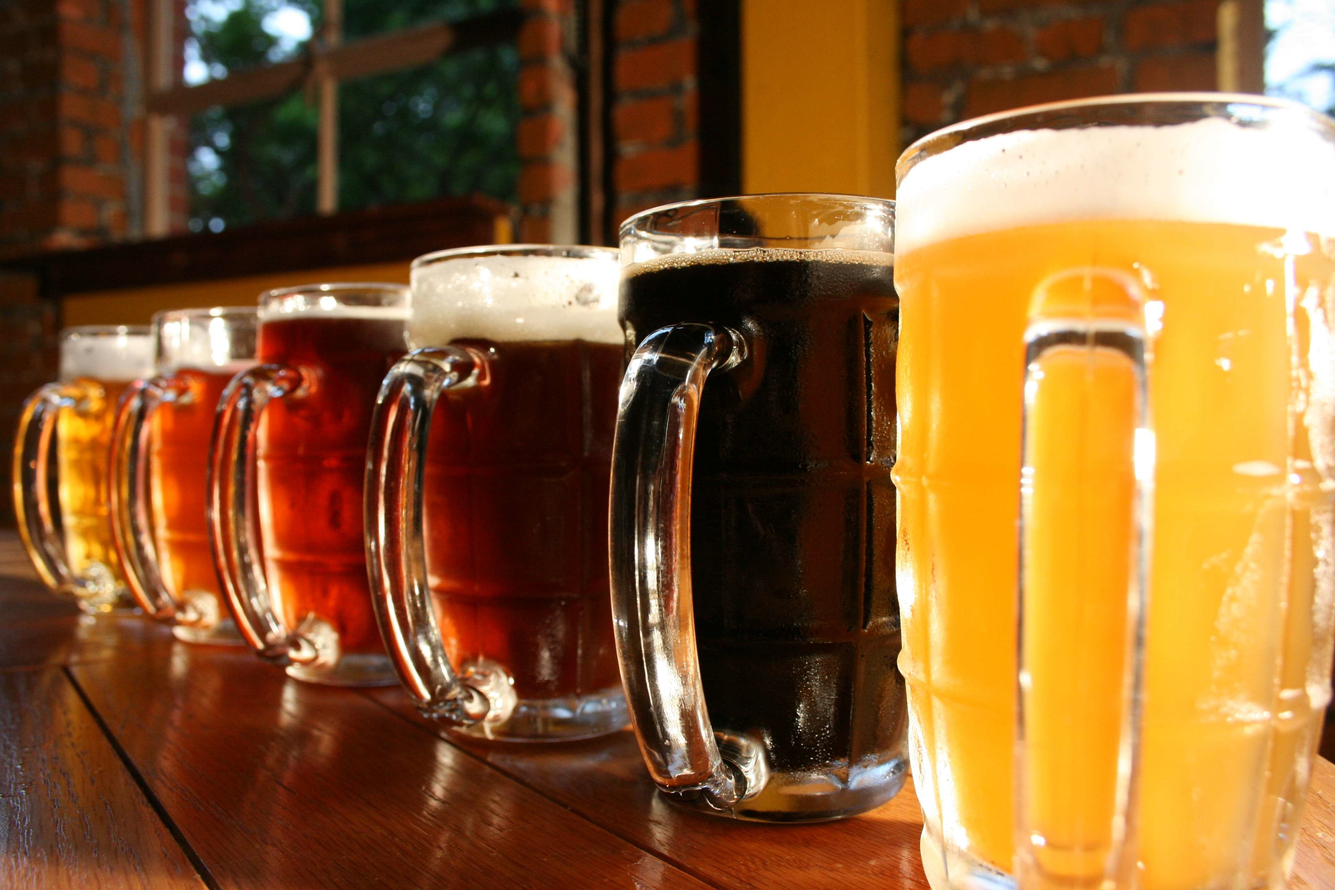
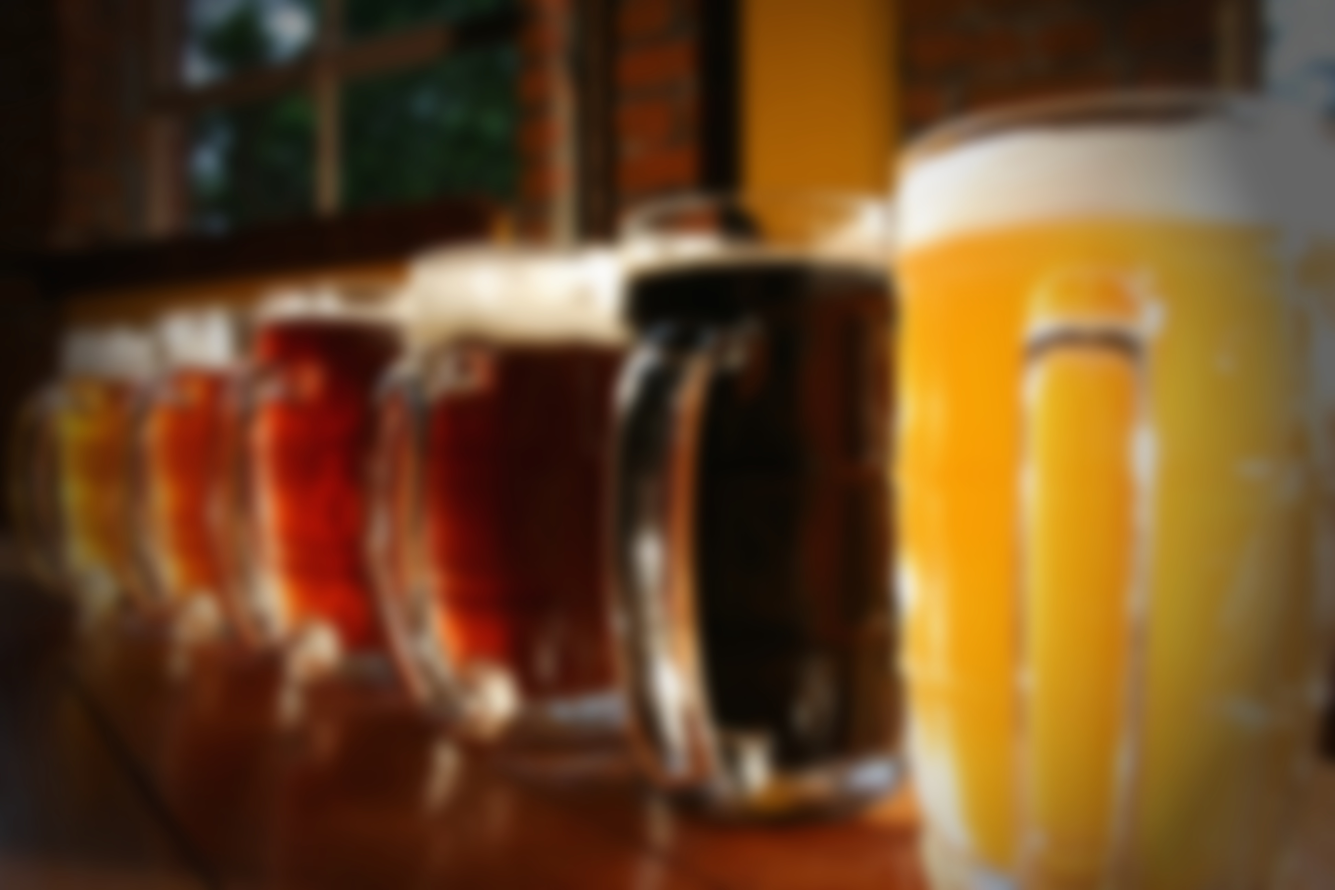
Front page fixes

diff --git a/public/stylesheets/application.css b/public/stylesheets/application.css
@@ -1,20 +1,15 @@
-.blue {
-  background-color: #0000FF;
-}
-
-.jumbo-image {
-  text-align:center;
-  margin:auto;
-}
-.homediv {
-  width:200px;
-}
-
-.background {
-  background-color: #000000;
-  background-size: cover;
-}
-
 .blacktext {
   color: #000000;
+}
+
+#background {
+  -webkit-filter: blur(5px);
+  -moz-filter: blur(5px);
+  -o-filter: blur(5px);
+  -ms-filter: blur(5px);
+  filter: blur(5px);
+}
+
+.shadow {
+  text-shadow: 5px 5px #000000;
 }

diff --git a/db/migrate/20160520230658_add_images.rb b/db/migrate/20160520230658_add_images.rb
@@ -1,0 +1,11 @@
+class AddImages < ActiveRecord::Migration
+  def change
+    change_table :questions do |t|
+      t.string :q_image
+    end
+
+    change_table :beers do |t|
+      t.string :adj_image
+    end
+  end
+end
